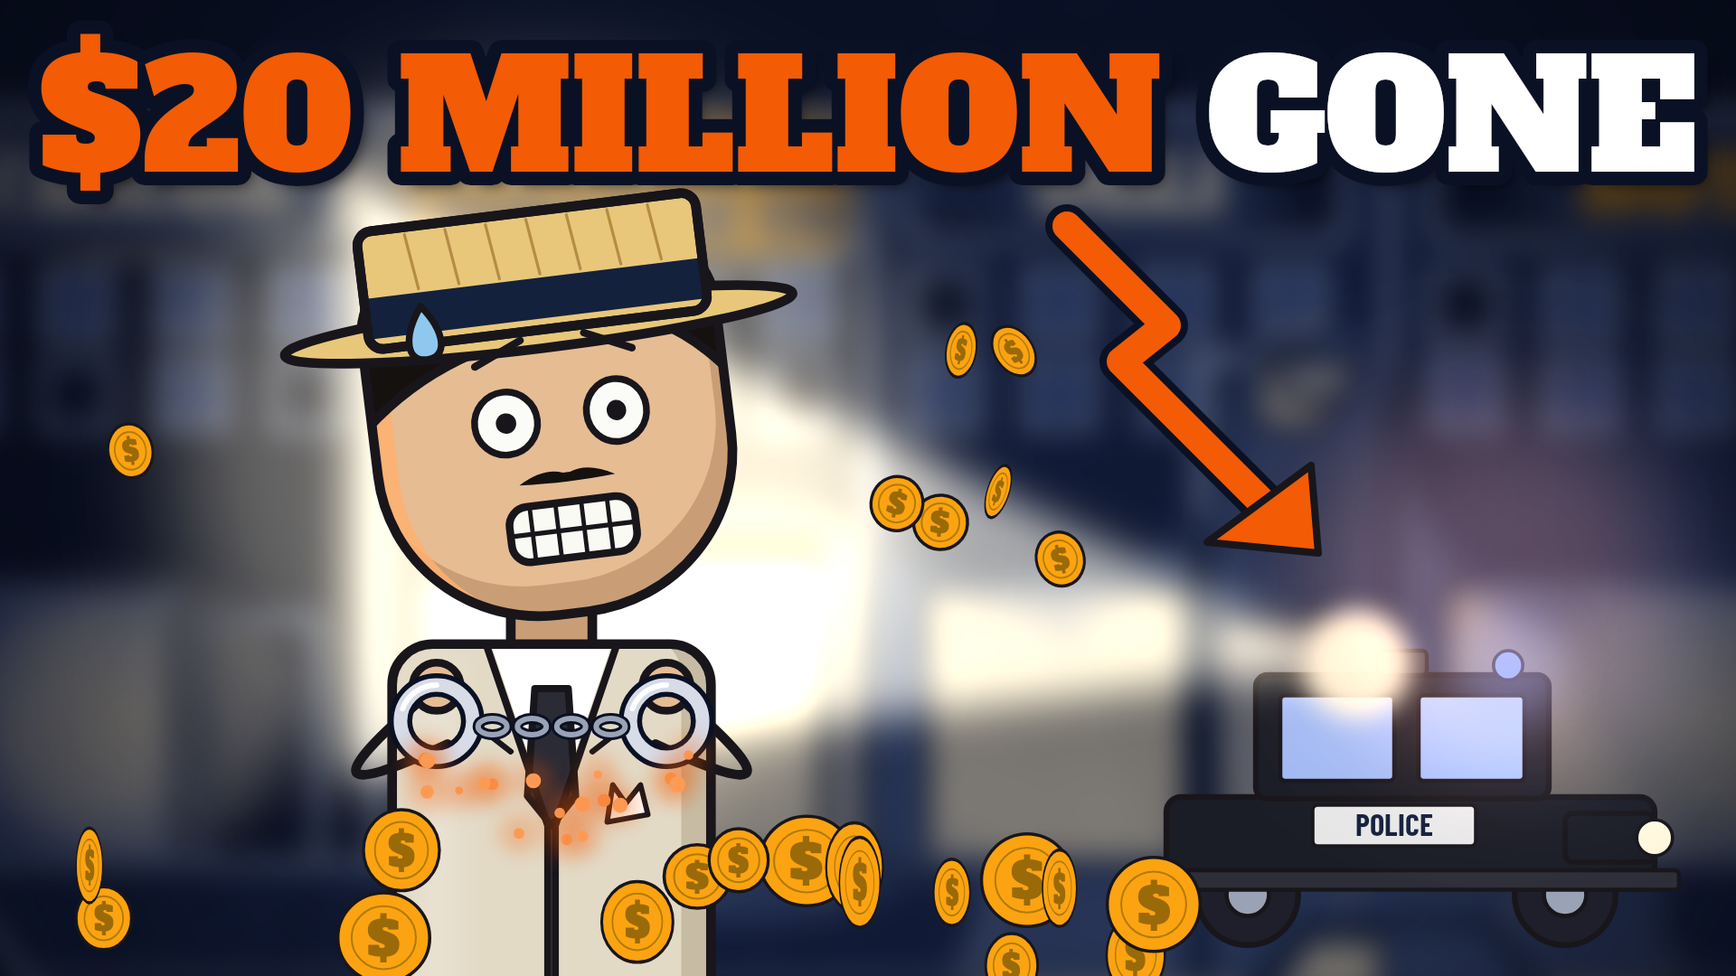
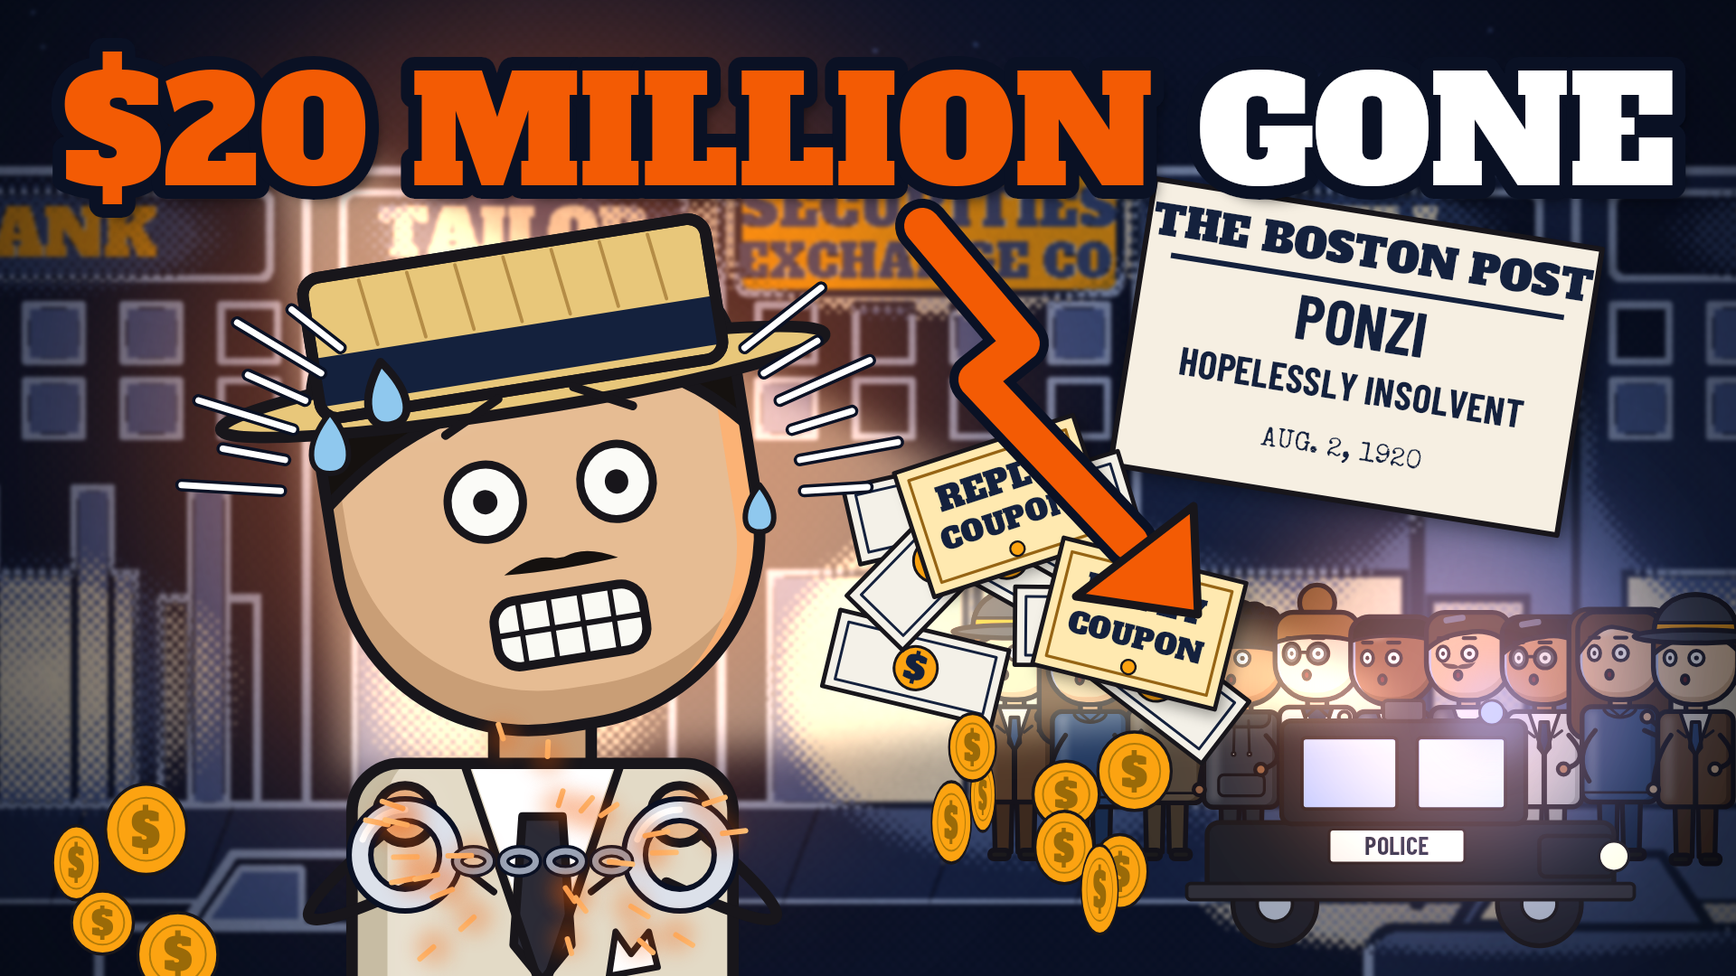
Lock thumbnail style (owner-approved $20M GONE v3: sharp night-print set, huge emotional character, whole story packed in); thumbnails A/B/C + full YouTube upload file with references
Claude-Session: https://claude.ai/code/session_012R7ivEHFDiESuXozDjLQBh

diff --git a/videos/ponzi-full/thumbnails/make_thumb.py b/videos/ponzi-full/thumbnails/make_thumb.py
@@ -3,58 +3,133 @@ import sys, os, math, random, pathlib
 HERE = pathlib.Path(__file__).resolve().parent
 sys.path.insert(0, str(HERE.parents[2] / '.claude' / 'skills' / 'documentary-animator'))
 import skia
-from engine.core import W, H, NAVY, GOLD, ORANGE, WHITE, F_TITLE
+from engine.core import W, H, NAVY, GOLD, ORANGE, WHITE, PAPER, F_TITLE, F_LABEL, F_TYPE
 from engine import kit, widgets as Wd, anim as A
 from engine.kit import fp, ink, draw_char, hand_pos, poly, rect, circ, vignette
 from engine.cast import CAST
 from engine.sets import get_set
 
 def thumb(path):
+    """B - "$20 MILLION GONE" v3: channel night-print street (sharp), the whole story around a huge panicked Ponzi:
+    the line of investors at SECURITIES EXCHANGE CO., police car + spotlight, Boston Post headline, reply coupons,
+    cash flying, coins falling, handcuffs, orange crash arrow."""
     s = skia.Surface(W, H); c = s.getCanvas()
-    # background: the 1920s night street, zoomed + blurred, darkened
-    st = get_set('night/street1920'); p = skia.Paint(); p.setImageFilter(skia.ImageFilters.Blur(10, 10))
-    c.save(); c.translate(W / 2, H / 2); c.scale(1.6, 1.6); c.translate(-1100, -560); c.drawImage(st.base, 0, 0, skia.SamplingOptions(), p); c.restore()
-    c.drawRect(skia.Rect(0, 0, W, H), fp((6, 10, 28), 120)); vignette(c, .75, .45)
-    # police car on the right + spotlight onto Ponzi
-    A.police_car(c, 1560, 990, 2.0, .9, spot_target=None)
-    beam = skia.Path(); beam.moveTo(1500, 735); beam.lineTo(380, 200); beam.lineTo(380, 860); beam.close()
-    c.drawPath(beam, fp('#FFF2C8', 150, blur=24, blend=skia.BlendMode.kPlus)); c.drawCircle(1500, 735, 60, fp('#FFF6DC', 230, blur=14))
-    c.drawCircle(600, 500, 400, fp('#FFE9B0', 95, blur=60, blend=skia.BlendMode.kPlus))
-    for x, y, col in ((1700, 650, '#6F8FE0'), (1640, 640, ORANGE)): c.drawCircle(x, y, 200, fp(col, 55, blur=60, blend=skia.BlendMode.kPlus))
-    # orange crash arrow zig-zag down (right)
-    pts = [(1180, 250), (1290, 360), (1240, 400), (1400, 560)]
-    pa = skia.Path(); pa.moveTo(*pts[0]); [pa.lineTo(*q) for q in pts[1:]]
-    c.drawPath(pa, ink(48, (10, 17, 36))); c.drawPath(pa, ink(32, ORANGE))
-    poly(c, [(1335, 600), (1450, 515), (1458, 612)], ORANGE, 8)
-    # Ponzi close-up: shocked, gritted teeth, sweat, hat knocked crooked, hands cuffed in front
-    spec = dict(CAST['ponzi']); X, FEET, S = 610, 1420, 2.05
-    draw_char(c, X, FEET, S, spec, face=.15, eyes='wide', mouth='grit', brow=1.0, brow_tilt=-.8, arms=('chin', 'chin'), tilt=-7,
-              sweat=.35, light=-1, rim='#FFB070', hat=True)
-    r = random.Random(3)
-    for k in range(2): c.drawCircle(X + (-150 if k else 175), FEET + S * kit.HEAD_CY - 60 + k * 40, 0, fp(WHITE))
-    # handcuffs on the wrists
-    lx, ly = hand_pos(X, FEET, S, ('chin', 'chin'), -1); rx, ry = hand_pos(X, FEET, S, ('chin', 'chin'), 1); cy = (ly + ry) / 2 + 38
-    for hx in (lx, rx):                                                        # cuff rings around each wrist
-        c.drawCircle(hx, cy, 40, ink(26, (10, 17, 36))); c.drawCircle(hx, cy, 40, ink(15, '#D7DCE6'))
-        c.drawArc(skia.Rect(hx - 40, cy - 40, hx + 40, cy + 40), 200, 70, False, ink(6, WHITE))
-    for k in range(4):                                                         # short chain between the cuffs
-        t_ = (k + .5) / 4; x_ = lx + 40 + (rx - lx - 80) * t_
-        c.drawOval(skia.Rect(x_ - 16, cy + 6 - 9, x_ + 16, cy + 6 + 9), ink(12, (10, 17, 36))); c.drawOval(skia.Rect(x_ - 16, cy + 6 - 9, x_ + 16, cy + 6 + 9), ink(6, '#9AA3B5'))
-    for k in range(18):                                                           # orange sparks off the cuffs
-        a = r.uniform(0, 2 * math.pi); d = r.uniform(60, 170); x0, y0 = (lx + rx) / 2 + math.cos(a) * d, cy + 30 + abs(math.sin(a)) * d * .6
-        c.drawCircle(x0, y0, r.uniform(4, 9), fp('#FFB070')); c.drawCircle(x0, y0, 22, fp(ORANGE, 70, blur=10))
-    # gold coins falling / scattered at the bottom
-    for k in range(16):
-        x0 = r.uniform(60, 1300); y0 = r.uniform(930, 1070); c.save(); c.translate(x0, y0); c.scale(abs(math.cos(k)) * .7 + .35, 1); Wd.coin(c, 0, 0, r.uniform(34, 52)); c.restore()
-    for k in range(7):                                                        # coins flying at the sides only (never over the face)
-        x0 = r.choice([r.uniform(60, 200), r.uniform(980, 1180)]); y0 = r.uniform(380, 760); c.save(); c.translate(x0, y0); c.rotate(r.uniform(-40, 40)); c.scale(abs(math.sin(k * 1.7)) * .6 + .4, 1); Wd.coin(c, 0, 0, 30); c.restore()
-    # headline: "$20 MILLION" orange + "GONE" white, Alfa Slab, thick outline + shadow
-    f = skia.Font(F_TITLE, 168); a_, b_ = '$20 MILLION ', 'GONE'; wa = f.measureText(a_); wt = wa + f.measureText(b_); x0 = (W - wt) / 2; y0 = 190
-    for txt, col, xx in ((a_, ORANGE, x0), (b_, WHITE, x0 + wa)):
-        c.drawString(txt, xx + 12, y0 + 14, f, fp((0, 0, 0), 170, blur=8)); c.drawString(txt, xx, y0, f, ink(30, (10, 17, 36))); c.drawString(txt, xx, y0, f, fp(col))
-    img = s.makeImageSnapshot(); img.save(str(path).replace('.jpg', '_1920.png'), skia.kPNG)
+    st = get_set('night/street1920'); p = skia.Paint(); p.setImageFilter(skia.ImageFilters.Blur(1.5, 1.5))
+    c.save(); c.translate(W / 2, H / 2); c.scale(1.35, 1.35); c.translate(-880, -560); c.drawImage(st.base, 0, 0, skia.SamplingOptions(), p)
+    from engine.actor import Actor                                                     # the line of investors (sharp, in world space)
+    q = ['worker', 'saver', 'retiree', 'grad', 'reporter', 'agent', 'banker', 'analyst', 'saver', 'worker']
+    for k in range(10):
+        a = Actor(q[k], 1000 + k * 62, 864 + (k % 2) * 4, .36, face=-.7, light=-1, rim='#9FB8F0', hat=(q[k] == 'worker'))
+        a.expression(0, eyes='wide', mouth='o', brow=.7); a.pose(0, ('down', 'hold') if k % 2 else ('pocket', 'chin')); a.draw(c, .5)
+    c.restore()
+    c.drawRect(skia.Rect(0, 0, W, H), fp((4, 8, 22), 70)); vignette(c, .8, .45)
+    # police car (clear) bottom-right + siren + spotlight beam onto Ponzi
+    A.police_car(c, 1560, 1000, 2.0, .75)
+    for x, y, col in ((1650, 760, '#5F86F0'), (1580, 760, ORANGE)): c.drawCircle(x, y, 200, fp(col, 80, blur=60, blend=skia.BlendMode.kPlus))
+    beam = skia.Path(); beam.moveTo(1555, 780); beam.lineTo(300, 130); beam.lineTo(380, 860); beam.close()
+    c.drawPath(beam, fp('#FFF2C8', 105, blur=22, blend=skia.BlendMode.kPlus))
+    c.drawCircle(620, 470, 450, fp(ORANGE, 95, blur=110, blend=skia.BlendMode.kPlus))
+    # Boston Post headline flying in (upper right)
+    c.save(); c.translate(1500, 395); c.rotate(9); c.drawRect(skia.Rect(-250, -150, 260, 165), fp((0, 0, 0), 120, blur=12))
+    rect(c, -250, -160, 250, 160, PAPER, 6); Wd.text(c, 'THE BOSTON POST', 0, -100, 46, NAVY, F_TITLE, 'center')
+    c.drawRect(skia.Rect(-220, -82, 220, -76), fp(NAVY)); Wd.text(c, 'PONZI', 0, -10, 70, NAVY, F_LABEL, 'center'); Wd.text(c, 'HOPELESSLY INSOLVENT', 0, 50, 44, NAVY, F_LABEL, 'center')
+    Wd.text(c, 'AUG. 2, 1920', 0, 112, 30, NAVY, F_TYPE, 'center'); c.restore()
+    # cash + reply coupons flying away from him
+    r = random.Random(21)
+    for k in range(8):
+        x0, y0, rot = r.uniform(960, 1280), r.uniform(560, 820), r.uniform(-50, 50)
+        c.save(); c.translate(x0, y0); c.rotate(rot); c.scale(1.2, 1.2); Wd.bill(c, 0, 0, 0, 1.0); c.restore()
+    for k, (x0, y0, rot) in enumerate(((1110, 560, -18), (1260, 690, 14))): coupon_card(c, x0, y0, rot, .8)
+    # huge panicked Ponzi
+    X, FEET, S = 600, 1690, 2.45
+    draw_char(c, X, FEET, S, dict(CAST['ponzi']), face=.12, eyes='wide', mouth='grit', brow=1.1, brow_tilt=-.9, arms=('chin', 'chin'), tilt=-9,
+              sweat=.3, light=1, rim='#FFB070', hat=True)
+    hcx, hcy = X, FEET + S * kit.HEAD_CY
+    for dx, dy, sc_ in ((-235, -60, 1.3), (240, 10, 1.0)):
+        d = skia.Path(); x_, y_ = hcx + dx, hcy + dy; d.moveTo(x_, y_ - 34 * sc_); d.cubicTo(x_ + 22 * sc_, y_ - 6 * sc_, x_ + 20 * sc_, y_ + 18 * sc_, x_, y_ + 18 * sc_)
+        d.cubicTo(x_ - 20 * sc_, y_ + 18 * sc_, x_ - 22 * sc_, y_ - 6 * sc_, x_, y_ - 34 * sc_); d.close(); kit.shape(c, d, '#8FC8EE', 6)
+    for k in range(12):
+        a = -math.pi * ((.02 + .2 * (k % 6) / 5) if k < 6 else (.78 + .2 * (k % 6) / 5)); r0, r1 = 290, 360 + (k % 2) * 40
+        p0 = (hcx + math.cos(a) * r0, hcy + math.sin(a) * r0 * .95); p1 = (hcx + math.cos(a) * r1, hcy + math.sin(a) * r1 * .95)
+        c.drawLine(*p0, *p1, ink(14, (10, 17, 36))); c.drawLine(*p0, *p1, ink(7, WHITE))
+    lx, ly = hand_pos(X, FEET, S, ('chin', 'chin'), -1); rx, ry = hand_pos(X, FEET, S, ('chin', 'chin'), 1); cy = (ly + ry) / 2 + 45
+    for hx in (lx, rx):
+        c.drawCircle(hx, cy, 50, ink(30, (10, 17, 36))); c.drawCircle(hx, cy, 50, ink(18, '#DCE1EA')); c.drawArc(skia.Rect(hx - 50, cy - 50, hx + 50, cy + 50), 200, 70, False, ink(7, WHITE))
+    for k in range(4):
+        x_ = lx + 50 + (rx - lx - 100) * (k + .5) / 4; c.drawOval(skia.Rect(x_ - 18, cy - 4, x_ + 18, cy + 18), ink(14, (10, 17, 36))); c.drawOval(skia.Rect(x_ - 18, cy - 4, x_ + 18, cy + 18), ink(7, '#9AA3B5'))
+    for k in range(26):
+        a = r.uniform(0, 2 * math.pi); d_ = r.uniform(60, 220); x0, y0 = (lx + rx) / 2 + math.cos(a) * d_, cy + math.sin(a) * d_ * .6
+        c.drawLine(x0, y0, x0 + math.cos(a) * 26, y0 + math.sin(a) * 16, ink(6, '#FFC27A')); c.drawCircle(x0, y0, 20, fp(ORANGE, 70, blur=10))
+    for k in range(12):                                                               # coins falling at the sides
+        x0 = r.choice([r.uniform(40, 220), r.uniform(1000, 1300)]); y0 = r.uniform(820, 1060)
+        c.save(); c.translate(x0, y0); c.scale(abs(math.cos(k * 1.3)) * .7 + .3, 1); Wd.coin(c, 0, 0, r.uniform(34, 50)); c.restore()
+    # orange crash arrow down the middle-right
+    pts = [(1020, 250), (1130, 380), (1080, 420), (1250, 600)]
+    pa = skia.Path(); pa.moveTo(*pts[0]); [pa.lineTo(*q_) for q_ in pts[1:]]
+    c.drawPath(pa, ink(60, (10, 17, 36))); c.drawPath(pa, ink(40, ORANGE)); poly(c, [(1190, 660), (1320, 560), (1325, 680)], ORANGE, 9)
+    _headline(c, [('$20 MILLION ', ORANGE), ('GONE', WHITE)], size=190, y0=205)
+    _save(s, path)
+
+def _bg(c, zoom=1.6, focus=(1100, 560), dark=120, blur=10):
+    st = get_set('night/street1920'); p = skia.Paint(); p.setImageFilter(skia.ImageFilters.Blur(blur, blur))
+    c.save(); c.translate(W / 2, H / 2); c.scale(zoom, zoom); c.translate(-focus[0], -focus[1]); c.drawImage(st.base, 0, 0, skia.SamplingOptions(), p); c.restore()
+    c.drawRect(skia.Rect(0, 0, W, H), fp((6, 10, 28), dark)); vignette(c, .75, .45)
+
+def _headline(c, parts, size=168, y0=190):
+    f = skia.Font(F_TITLE, size); wt = sum(f.measureText(t) for t, _ in parts)
+    if wt > 1780: size = size * 1780 / wt; f = skia.Font(F_TITLE, size); wt = sum(f.measureText(t) for t, _ in parts)   # auto-fit
+    x = (W - wt) / 2
+    for txt, col in parts:
+        c.drawString(txt, x + 12, y0 + 14, f, fp((0, 0, 0), 170, blur=8)); c.drawString(txt, x, y0, f, ink(30, (10, 17, 36))); c.drawString(txt, x, y0, f, fp(col)); x += f.measureText(txt)
+
+def _save(s, path):
+    s.makeImageSnapshot().save(str(path).replace('.jpg', '_1920.png'), skia.kPNG)
     from PIL import Image
     Image.open(str(path).replace('.jpg', '_1920.png')).convert('RGB').resize((1280, 720), Image.LANCZOS).save(path, quality=92)
 
+def coupon_card(c, x, y, rot, s=1.0):
+    c.save(); c.translate(x, y); c.rotate(rot); c.scale(s, s)
+    c.drawRect(skia.Rect(-120, -80, 140, 100), fp((0, 0, 0), 90, blur=10)); rect(c, -130, -90, 130, 90, '#FFE9B0', 6)
+    rect(c, -114, -74, 114, 74, None, 4, v=(150, 100, 20)); Wd.text(c, 'REPLY', 0, -18, 46, NAVY, F_TITLE, 'center')
+    Wd.text(c, 'COUPON', 0, 34, 40, NAVY, F_TITLE, 'center'); circ(c, 0, 62, 10, GOLD, 3); c.restore()
+
+def thumb_a(path):
+    """A - "50% IN 45 DAYS": smirking Ponzi holding a fan of glowing coupons, the line queueing behind."""
+    s = skia.Surface(W, H); c = s.getCanvas(); _bg(c, 1.7, (760, 640))
+    c.drawCircle(1250, 640, 420, fp(GOLD, 70, blur=90, blend=skia.BlendMode.kPlus))
+    X, FEET, S = 640, 1440, 2.05
+    draw_char(c, X, FEET, S, dict(CAST['ponzi']), face=.25, eyes='half', mouth='smirk', brow=-.35, brow_tilt=.4, arms=('down', 'present'),
+              light=1, rim='#FFD27A', hat=True, sparkle=1.0)
+    hx, hy = hand_pos(X, FEET, S, ('down', 'present'), 1)
+    for k, (dx, rot) in enumerate(((-130, -26), (-45, -10), (45, 6), (130, 22))): coupon_card(c, hx + 190 + dx, hy - 40 - abs(dx) * .25, rot, 1.45)
+    r = random.Random(9)
+    for k in range(22):
+        a = r.uniform(0, 2 * math.pi); d = r.uniform(220, 420); x0, y0 = hx + 120 + math.cos(a) * d, hy + math.sin(a) * d * .7
+        c.drawCircle(x0, y0, r.uniform(4, 9), fp('#FFE6A0')); c.drawCircle(x0, y0, 20, fp(GOLD, 70, blur=10))
+    _headline(c, [('50% ', GOLD), ('IN 45 DAYS', WHITE)])
+    _save(s, path)
+
+def thumb_c(path):
+    """C - "THE FIRST PONZI SCHEME": Ponzi on top of a cracking pyramid of investors."""
+    s = skia.Surface(W, H); c = s.getCanvas(); _bg(c, 1.4, (900, 400), dark=150)
+    cx, base = 1240, 1060; rows = 6; rowh = 125
+    for rr in range(rows):
+        n = 1 + rr * 2; y = base - (rows - rr) * rowh
+        for i in range(n):
+            px = cx - n * 92 / 2 + 46 + i * 92
+            c.save(); c.translate(px, y + 60); c.scale(1.15, 1.15); circ(c, 0, -34, 22, '#E9C09A', 5); rect(c, -26, -12, 26, 44, NAVY if rr < rows - 1 else '#3E5689', 5, r=10)
+            Wd.coin(c, 0, -74, 16); c.restore()
+    for side in (-1, 1):
+        p = skia.Path(); p.moveTo(cx + side * 470, base - 60); p.quadTo(cx + side * 520, base - 420, cx + side * 90, base - rows * rowh - 20)
+        c.drawPath(p, ink(22, (10, 17, 36))); c.drawPath(p, ink(13, GOLD))
+    crk = skia.Path(); crk.moveTo(cx - 520, base - 30)
+    for px, py in ((-380, -70), (-260, -20), (-120, -90), (0, -40), (140, -100), (300, -30), (520, -80)): crk.lineTo(cx + px, base + py)
+    c.drawPath(crk, ink(30, (10, 17, 36))); c.drawPath(crk, ink(16, ORANGE)); c.drawPath(crk, fp(ORANGE, 0)); c.drawPath(crk, ink(40, ORANGE, 70))
+    c.drawCircle(470, 560, 380, fp(GOLD, 60, blur=80, blend=skia.BlendMode.kPlus))
+    draw_char(c, 470, 1330, 1.85, dict(CAST['ponzi']), face=.35, eyes='closed', mouth='open', arms=('cheer', 'hip'), light=1, rim='#FFD27A', hat=True)
+    _headline(c, [('THE FIRST ', WHITE), ('PONZI ', GOLD), ('SCHEME', WHITE)], size=140)
+    _save(s, path)
+
 if __name__ == '__main__':
+    thumb(HERE / 'thumb_B_20M_gone.jpg'); thumb_a(HERE / 'thumb_A_50pct_45days.jpg'); thumb_c(HERE / 'thumb_C_first_ponzi.jpg')
     thumb(HERE / 'thumb_B_20M_gone.jpg'); print('saved')

diff --git a/videos/ponzi-full/youtube.md b/videos/ponzi-full/youtube.md
@@ -1,11 +1,16 @@
-# YouTube upload - 50% in 45 Days (Ponzi)
+# YouTube upload – 50% in 45 Days (Ponzi)  ·  Dirty Dollar (@DirtyDollarFile)
 
-## Title options
+## Thumbnails (in `thumbnails/`, 1280x720) – use YouTube "Test & Compare" with all three
+- A: `thumb_A_50pct_45days.jpg` – "50% IN 45 DAYS" (smirking Ponzi + glowing reply coupons)  ← test first
+- B: `thumb_B_20M_gone.jpg` – "$20 MILLION GONE" (handcuffs + police spotlight)
+- C: `thumb_C_first_ponzi.jpg` – "THE FIRST PONZI SCHEME" (Ponzi + cracking pyramid)
+
+## Title options (pick one)
 1. The Man Who Gave His Name to a Scam (50% in 45 Days)
 2. He Promised 50% in 45 Days. Boston Believed Him.
 3. How One Man Fooled Boston — And Named a Scam Forever
 
-## Description
+## Description (copy everything in the box)
 ```
 Boston, 1920. Thousands lined up to hand Charles Ponzi their savings — promised 50% profit in 45 days. The man taking their money had a prison record. Nobody in that line knew it.
 
@@ -24,22 +29,43 @@ This is the true story of the scheme that gave the Ponzi scheme its name: the po
 🚩 SEC red flags: guaranteed high returns with little risk, returns that never go down, a secret strategy nobody can explain, an unregistered seller, trouble getting your money out. Check any seller at investor.gov.
 
 📚 Sources
-(paste the list with links from sources.md)
+1. Smithsonian Magazine – "In Ponzi We Trust": https://www.smithsonianmag.com/history/in-ponzi-we-trust-64016168/
+2. ABA Journal – Ponzi pleads guilty (1920): https://www.abajournal.com/magazine/article/on-nov-30-1920-ponzi-was-indicted-by-suffolk-county-on-22-counts-of-larceny
+3. History Hit – The Rise and Fall of Charles Ponzi: https://www.historyhit.com/the-rise-and-fall-of-charles-ponzi-how-a-pyramid-scheme-changed-the-face-of-finance-forever/
+4. Hoaxes.org – Charles Ponzi: https://hoaxes.org/archive/permalink/charles_ponzi_and_the_ponzi_scheme
+5. SEC / Investor.gov – Ponzi Scheme: https://www.investor.gov/protect-your-investments/fraud/types-fraud/ponzi-scheme
+6. SEC / Investor.gov – Ponzi scheme red flags: https://www.investor.gov/introduction-investing/general-resources/news-alerts/alerts-bulletins/investor-alerts/investor-7
+7. SEC / Investor.gov – Ponzi schemes using virtual currencies: https://www.investor.gov/additional-resources/news-alerts/alerts-bulletins/investor-alert-ponzi-schemes-using-virtual
+8. Poynter – What journalism owes to Charles Ponzi: https://www.poynter.org/reporting-editing/2009/what-journalism-owes-to-charles-ponzi/
+9. William McMasters (publicist): https://en.wikipedia.org/wiki/William_McMasters
+10. Adweek – The publicist who dropped a dime on Charles Ponzi: https://www.adweek.com/digital/the-publicist-who-dropped-a-dime-on-charles-ponzi/
+11. New England Historical Society – Charles Ponzi: https://newenglandhistoricalsociety.com/charles-ponzi-the-financial-idiot-who-drove-boston-money-mad-in-1920/
+12. Biography – Charles Ponzi: https://www.biography.com/crime/charles-ponzi
+13. American Heritage – international reply coupons: https://www.americanheritage.com/node/52979?issue=52960
+14. Bank run record (Boston, 1920): https://finhist.com/bank-runs/episodes/7974.html
+15. EBSCO Research Starters – Ponzi cheats thousands: https://ebsco.com/research-starters/politics-and-government/ponzi-cheats-thousands-investment-scheme
+16. 1921 Pulitzer Prize (Boston Post): https://en.wikipedia.org/wiki/1921_Pulitzer_Prize
+17. US DOJ (archived) – United States v. Bernard L. Madoff: https://webarchive.library.unt.edu/web/20090115235423/http://www.usdoj.gov/usao/nys/madoff.html
+18. ABC News – Bernard Madoff: https://abcnews.go.com/Blotter/2009Scandals/bernard-madoff/story?id=9270749
+19. FBI IC3 – 2024 Internet Crime Report: https://www.ic3.gov/AnnualReport/Reports/2024_IC3Report.pdf
 
-Dialogue scenes are dramatised; all facts are sourced.
+Dialogue scenes are dramatised; all facts are sourced. Some figures are historical estimates (sources differ).
 Not financial advice — educational content only.
 
 Typewriter sound: Konrad Gutkowski / Work With Sounds (CC BY 4.0)
 
 #PonziScheme #TrueCrime #ScamAwareness
 ```
-Chapter times are from the temporary-voice timeline - recalculate if the ElevenLabs narration is used.
 
-## Tags
-ponzi scheme, charles ponzi, ponzi scheme explained, what is a ponzi scheme, original ponzi scheme, ponzi 1920,
-boston 1920, postal reply coupon scam, how to spot a ponzi scheme, investment scams, financial fraud documentary,
-bernie madoff, scam red flags, true crime money, white collar crime, con artist history, money history,
-animated documentary, dirty dollar, scam awareness
+## Tags (paste into the Tags field)
+```
+ponzi scheme, charles ponzi, ponzi scheme explained, what is a ponzi scheme, original ponzi scheme, ponzi 1920, boston 1920, postal reply coupon scam, how to spot a ponzi scheme, investment scams, financial fraud documentary, bernie madoff, scam red flags, true crime money, white collar crime, con artist history, money history, animated documentary, dirty dollar, scam awareness
+```
 
-## Files
-- Video: `out/final.mp4` · Captions: `out/captions.srt` (upload under Subtitles)
+## Upload checklist
+- Video: `out/final.mp4` · Captions: `out/captions.srt` (Subtitles → Upload file → With timing)
+- Thumbnail: A/B/C via Test & Compare · Category: Education · Audience: not made for kids
+- Paid promotion: no · Altered/synthetic content: no (animation, not realistic people)
+- End screen: 2 videos + subscribe over the last ~18 s · Add to playlist "Famous Scams"
+- Schedule: Thursday 2:00 pm Eastern (≈ 12:30 am Friday IST)
+- Chapter times are from the temporary-voice timeline – recalculate if the ElevenLabs narration is used.

diff --git a/.claude/skills/thumbnail-prompt/SKILL.md b/.claude/skills/thumbnail-prompt/SKILL.md
@@ -10,6 +10,20 @@ description: "Writes detailed AI-image prompts for the money documentary channel
 (`.claude/skills/documentary-animator/engine`), using **the exact same character as in the video** - see
 `videos/ponzi-full/thumbnails/make_thumb.py` for the pattern (blurred set background, big character close-up with an
 expression, story props from `anim`, Alfa Slab headline with outline + shadow, 1280x720 + 1920 PNG).
+**LOCKED THUMBNAIL STYLE (owner-approved: "$20 MILLION GONE" v3 - `videos/ponzi-full/thumbnails/make_thumb.py`, `thumb()`):**
+1. **Background = the channel's own night-print set** of the story (e.g. the 1920s street), only very slightly softened
+   (blur ~1.5) - never a heavy blur. Dark navy + dotted print look, the story's place signs readable.
+2. **Huge main character** (the locked character of the video) left/centre, ~45-55% of the frame, a strong emotion
+   (gritted teeth / wide eyes / sweat drops / hat knocked sideways) + comic shock lines; an orange or gold glow behind
+   the head; a spotlight or rim light on the face.
+3. **The whole story packed around him** (owner: "add more elements so people can't resist"): 5-8 story elements the
+   video really shows - e.g. the crowd/victims, police car + spotlight, the newspaper headline that exposed it, the
+   key prop (coupons), cash flying away, coins falling, handcuffs + sparks, an orange crash arrow for a loss.
+4. **Headline:** 2-4 huge words across the top, Alfa Slab, thick dark outline + shadow, white + ONE accent
+   (orange = loss, gold = money), auto-fit to the width, never covering the face.
+5. Make it in code with the engine (1280x720 jpg + 1920 png), 2-3 variants, the owner picks; use YouTube Test & Compare.
+6. Everything must be truthful to the video; locked palette; no green (only real flags).
+
 **Real people:** the character is the one locked before the video (from the owner's reference images, approved by the
 owner - see the animator skill, hard rule 4); it is designed from the real person's traits (face cut via `face_shape`, hair style/colour,
 facial hair, glasses, build, signature clothes + props), always in our 2D style, and the SAME character is used in the

diff --git a/BRAND.md b/BRAND.md
@@ -78,6 +78,10 @@ or down arrow; gains in navy ink with an up arrow (no green); small handwriting 
   the thumbnail**. Claude draws the thumbnail in code with the channel engine.
 
 ## Thumbnails (locked) - `.claude/skills/thumbnail-prompt/`
+- **Locked style (owner-approved "$20 MILLION GONE" v3):** the channel's own night-print set as a sharp background, a
+  huge emotional main character with shock lines and a glow, the whole story packed around him (crowd, police car +
+  spotlight, newspaper headline, key prop, flying cash, coins, crash arrow), a big Alfa Slab headline (white + one
+  orange/gold accent). Drawn by Claude in code with the engine.
 - Made by the owner in an AI image tool from **detailed prompts written at the end of every video** (after render),
   2-3 options per video.
 - Every prompt names the locked palette (hex + jobs, no green) and describes **our character style**; real people
